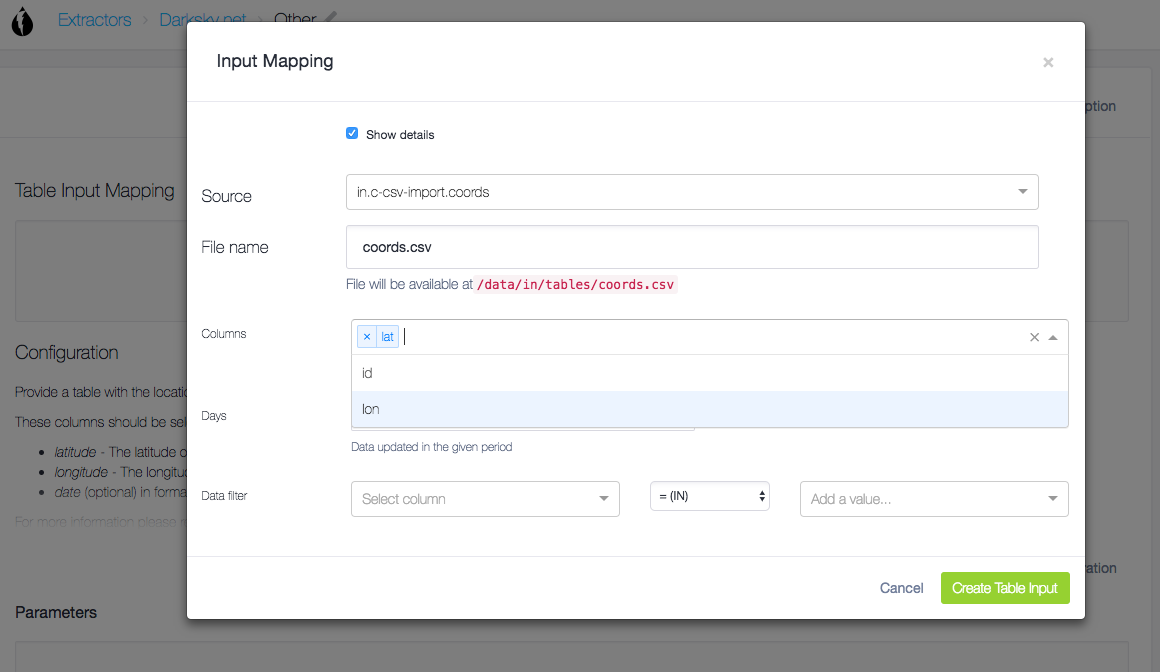
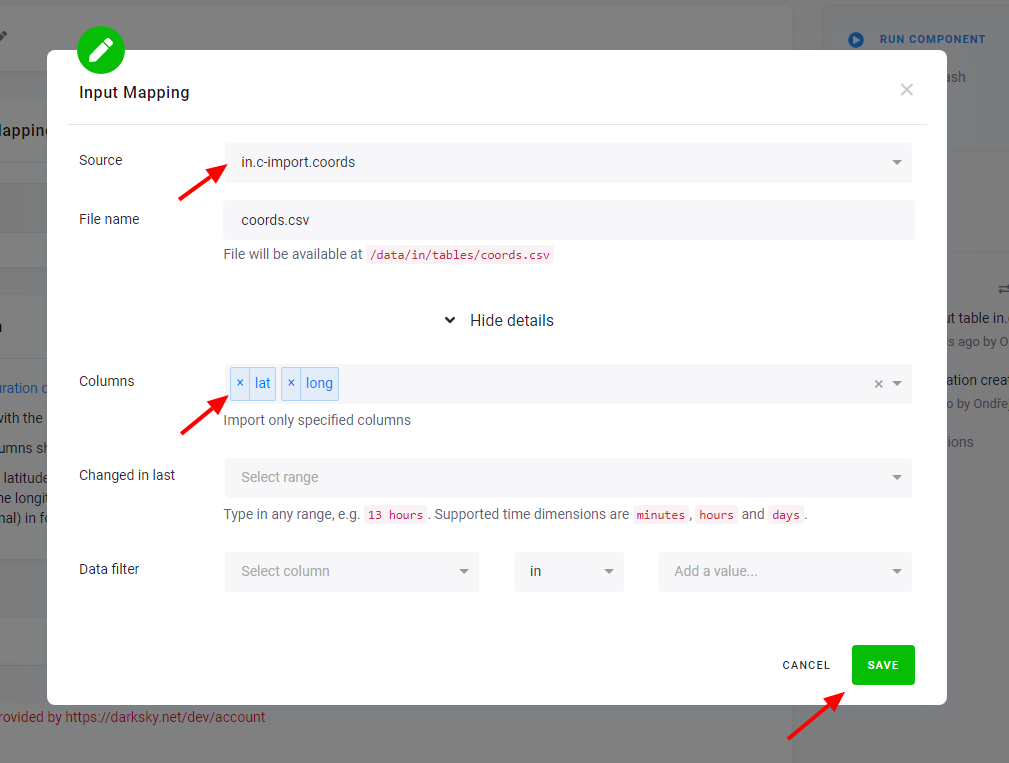
new ui update

diff --git a/components/extractors/other/dark-sky/index.md b/components/extractors/other/dark-sky/index.md
@@ -12,20 +12,18 @@ redirect_from:
 This extractor allows you to look up the weather anywhere on the globe, returning hour-by-hour or day-by-day observations going back decades.
 Data are provided by the [Dark Sky API](https://darksky.net/dev).
 
-## Configuring Extractor
-
 To configure the extractor, you need to provide tables with locations, your Dark Sky API key, units to use and a desired forecast granularity.
 
-### API Secret Key
-
+## API Secret Key
 Before you start, please create an account in the [Dark Sky API](https://darksky.net/dev). Log in and get your API Secret key.
 Dark Sky offers 1,000 API calls a day for free.
 
 {: .image-popup}
 ![Screenshot - Dark Sky API key](/components/extractors/other/dark-sky/dark-sky-token.png)
 
+## Configuration
+[Create a new configuration](/components/#creating-component-configuration) of the **Dark Sky** extractor.
 
-### Source Data Input Mapping
 The extractor fetches weather conditions for locations provided by you in one or more tables.
 Each table must contain the following columns in this particular order:
 
@@ -40,7 +38,7 @@ select the required columns in the desired order.
 {: .image-popup}
 ![Screenshot - Advanced Input Mapping](/components/extractors/other/dark-sky/input-mapping.png)
 
-#### Sample input table
+### Sample input table
 
 |latitude|longitude|
 |-----|----|
